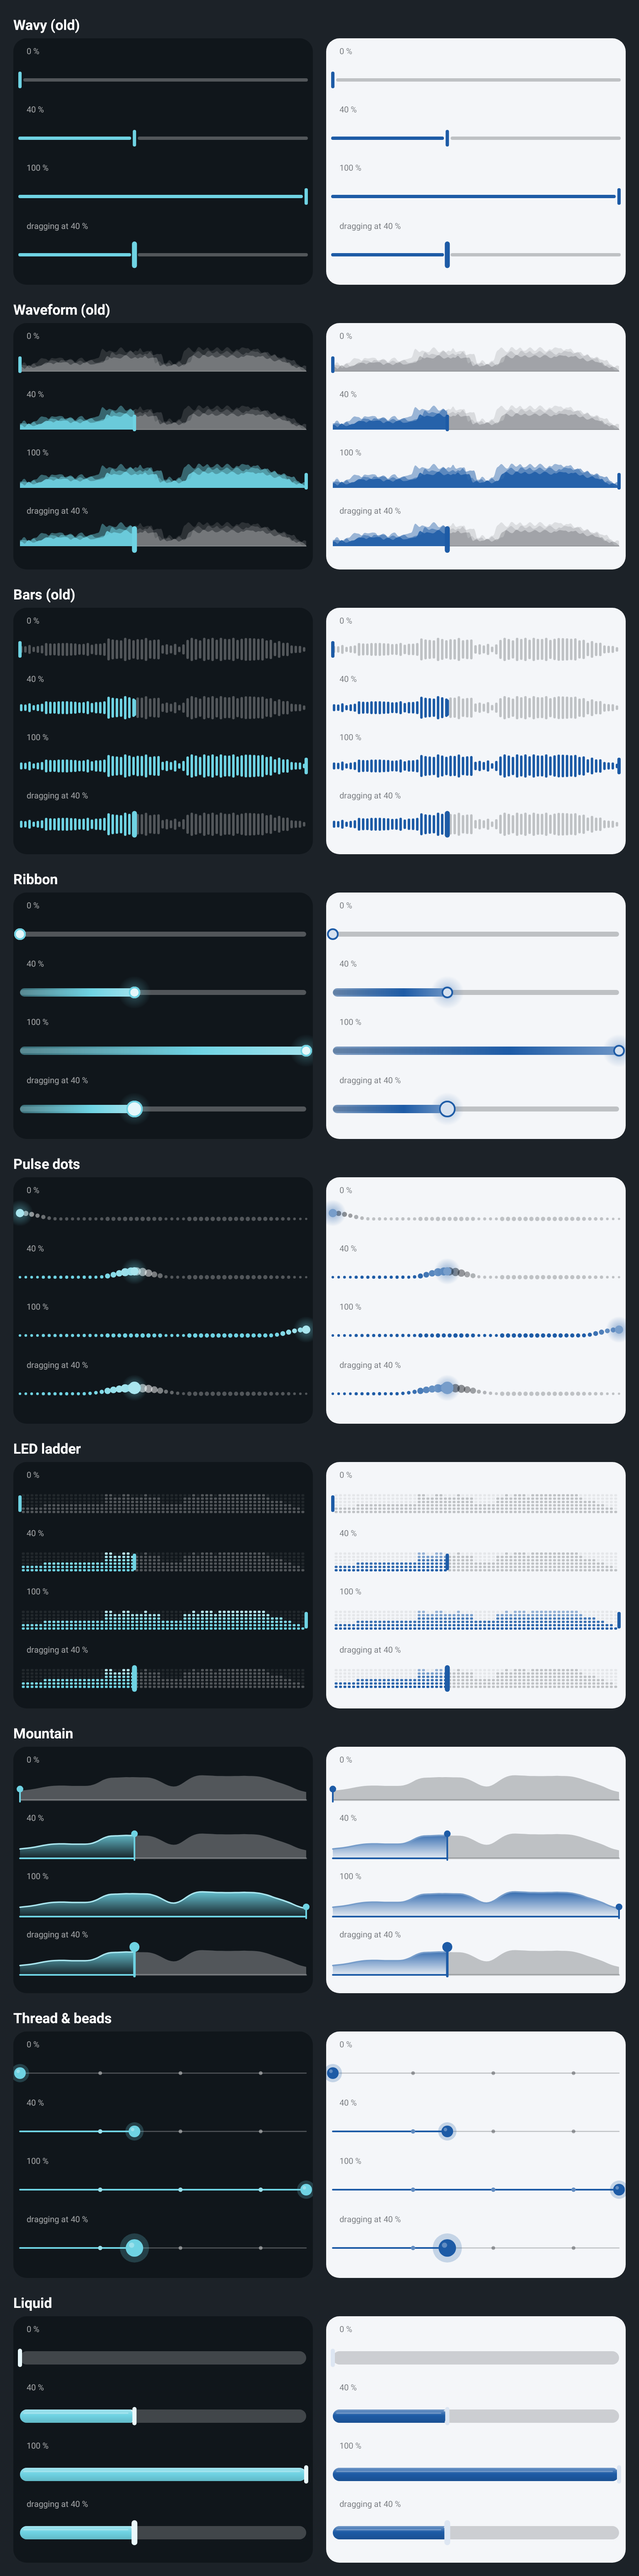
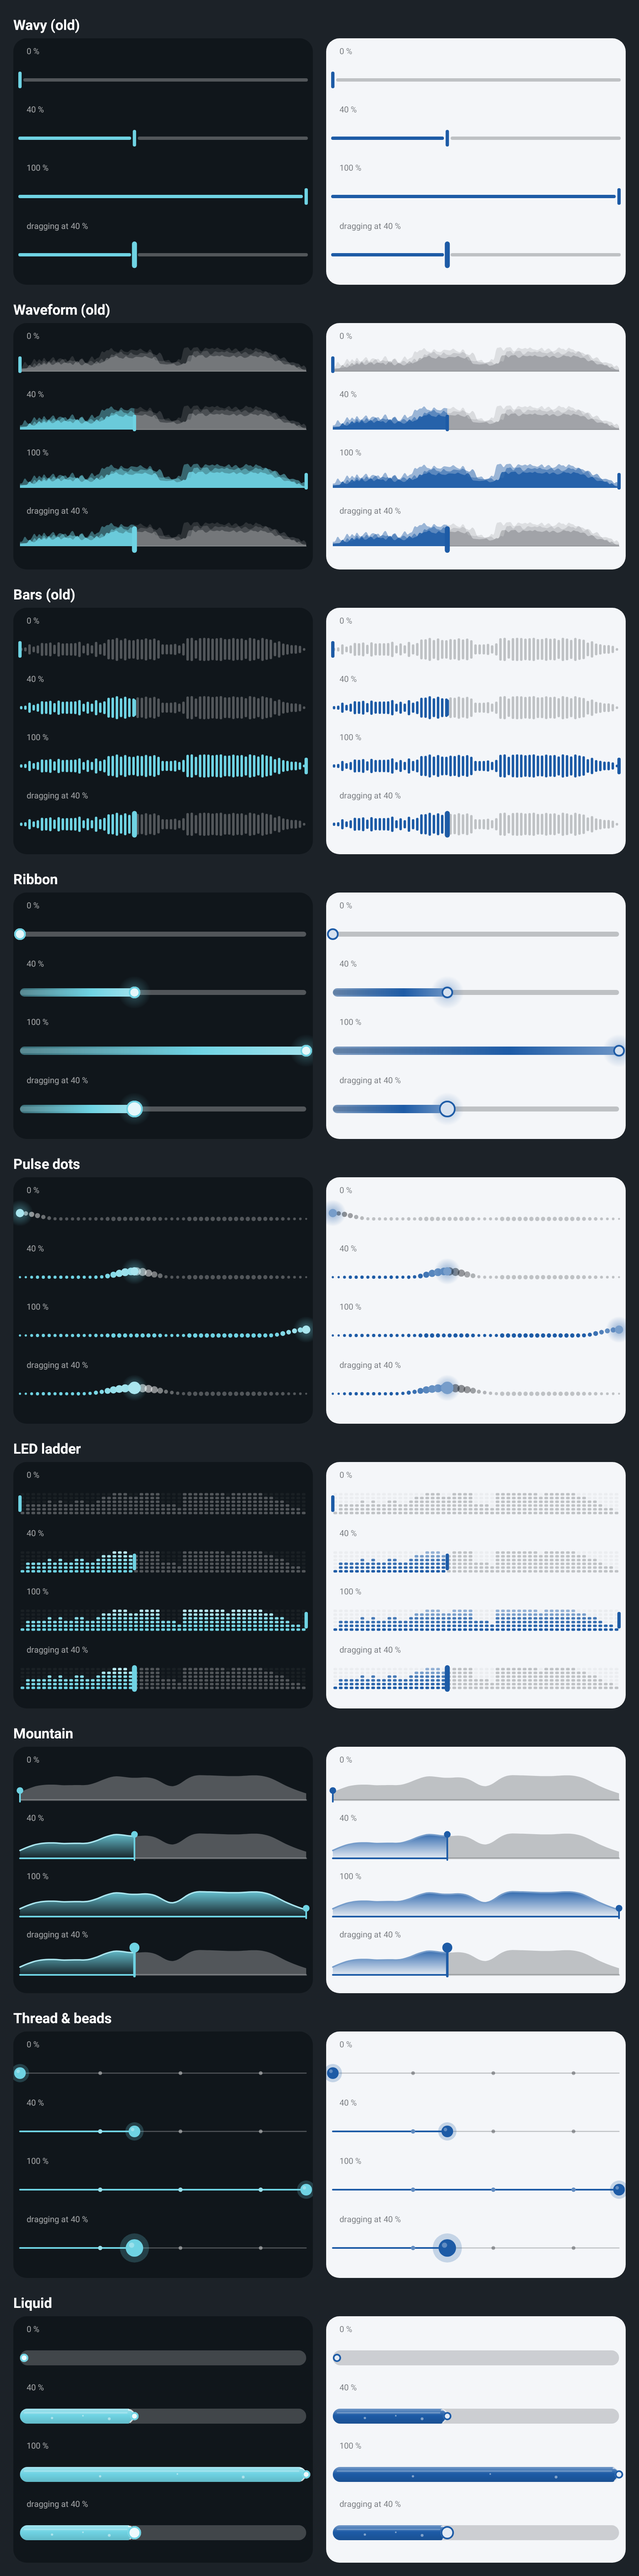
B2 (D25): liquid meniscus visible, bead wobble snaps without motion, API-26-safe heading, frame gating test, b2 renders
Renders: docs/screens/b2-styles-sheet.png, b2-picker-{dark,light,fa-dark}.png, b2-picker-over-player-*.png,
b2-player-mountain-fa-dark.png (RTL, bar LTR), b2-player-ladder-light.png, b2-player-liquid-live-dark.png (live switch)

Claude-Session: https://claude.ai/code/session_01Vs9o5GYUVh6nkyc9RDeAP9

diff --git a/app/src/testDebug/java/com/mhrsdev/musicplayer/ui/player/B2PlayerSeekRenderTest.java b/app/src/testDebug/java/com/mhrsdev/musicplayer/ui/player/B2PlayerSeekRenderTest.java
@@ -83,6 +83,9 @@ public class B2PlayerSeekRenderTest {
     public void pickerSheetFa() throws Exception { picker("fa-dark"); }
 
     private void picker(String tag) throws Exception {
+        // Robolectric runs vsync back to back, so a playing preview would tick forever inside idle(): render the
+        // still frame (animator scale 0 = the same path as reduce motion / battery saver).
+        animatorScale(0f);
         FragmentActivity a = host(SeekBarStyle.PULSE_DOTS);
         player(a);
         SeekStylePickerSheet sheet = new SeekStylePickerSheet();
@@ -108,6 +111,41 @@ public class B2PlayerSeekRenderTest {
         idle();
         assertEquals(SeekBarStyle.BEADS,
                 ((MusicPlayerApp) a.getApplication()).getContainer().settings().seekBarStyle().getValue());
+    }
+
+    /** Frames flow only while playing, attached/visible and motion allowed; they stop the moment one is false. */
+    @Test @Config(sdk = 35, qualifiers = "w360dp-h800dp-night-xhdpi")
+    public void framesOnlyWhilePlayingAndMotionAllowed() throws Exception {
+        animatorScale(1f);
+        FragmentActivity a = Robolectric.buildActivity(WidgetGalleryActivity.class).setup().get();
+        com.mhrsdev.musicplayer.ui.widget.FrameSeekView[] views = {
+                new LiquidSeekView(a), new com.mhrsdev.musicplayer.ui.widget.PulseDotsSeekView(a)};
+        for (com.mhrsdev.musicplayer.ui.widget.FrameSeekView v : views) {
+            ((ViewGroup) content(a)).addView(v, new ViewGroup.LayoutParams(720, 112));
+            v.setDuration(200_000);
+            assertTrue(!v.isAnimating());
+            v.setPlaying(true);
+            assertTrue("animates while playing + visible", v.isAnimating());
+            v.setVisibility(View.GONE);
+            assertTrue("stops when hidden", !v.isAnimating());
+            v.setVisibility(View.VISIBLE);
+            assertTrue(v.isAnimating());
+            v.setPlaying(false);
+            assertTrue("static when paused", !v.isAnimating());
+            animatorScale(0f);
+            v.setPlaying(true);
+            assertTrue("animator scale 0: fully static", !v.isAnimating());
+            v.setPlaying(false);
+            animatorScale(1f);
+            v.setPlaying(true);
+            ((ViewGroup) content(a)).removeView(v);
+            assertTrue("stops when detached", !v.isAnimating());
+        }
+    }
+
+    private static void animatorScale(float s) {
+        android.provider.Settings.Global.putFloat(org.robolectric.RuntimeEnvironment.getApplication().getContentResolver(),
+                android.provider.Settings.Global.ANIMATOR_DURATION_SCALE, s);
     }
 
     private static FragmentActivity host(SeekBarStyle style) throws Exception {

diff --git a/app/src/main/java/com/mhrsdev/musicplayer/ui/widget/LiquidSeekView.java b/app/src/main/java/com/mhrsdev/musicplayer/ui/widget/LiquidSeekView.java
@@ -90,7 +90,7 @@ public class LiquidSeekView extends FrameSeekView {
         float loud = SeekShapes.loudnessAt(waveform, SeekMath.fraction(position, duration));
         // paused: the last ripple stays frozen (still reads as liquid, costs nothing)
         float ripple = (moving ? 0.8f + 1.8f * loud : 0.7f) * density;
-        float bulge = 6f * density;
+        float bulge = 7f * density;
         liquid.rewind();
         meniscus.rewind();
         liquid.moveTo(left - r, cy - r);
@@ -124,9 +124,12 @@ public class LiquidSeekView extends FrameSeekView {
         canvas.restoreToCount(s);
     }
 
-    /** A pearl drop riding the meniscus: 12 dp, 18 dp while dragging, ringed in the accent so it reads in both themes. */
+    /**
+     * A pearl drop at the tip of the meniscus: 10 dp (16 dp while dragging), small enough that the curved liquid
+     * edge stays visible above and below it; ringed in the accent so it reads in both themes.
+     */
     @Override protected void drawThumb(Canvas canvas, float thumbX, float cy, float grow) {
-        float rr = (6f + 3f * grow) * density;
+        float rr = (5f + 3f * grow) * density;
         float x = Math.max(trackLeft() + rr, thumbX);
         canvas.drawCircle(x, cy, rr, cap);
         canvas.drawCircle(x, cy, rr - ring.getStrokeWidth() / 2f, ring);

diff --git a/app/src/main/java/com/mhrsdev/musicplayer/ui/settings/SeekStylePickerSheet.java b/app/src/main/java/com/mhrsdev/musicplayer/ui/settings/SeekStylePickerSheet.java
@@ -80,7 +80,7 @@ public class SeekStylePickerSheet extends BottomSheetDialogFragment {
         root.addView(handle, hl);
 
         TextView title = text(c, R.string.settings_seek_style, 22, R.attr.mpOnSurface, true);
-        title.setAccessibilityHeading(true);
+        androidx.core.view.ViewCompat.setAccessibilityHeading(title, true);
         title.setPadding(dp(c, 8), dp(c, 16), dp(c, 8), dp(c, 2));
         root.addView(title);
         TextView sub = text(c, R.string.seek_style_sheet_sub, 14, R.attr.mpOnSurfaceVariant, false);
